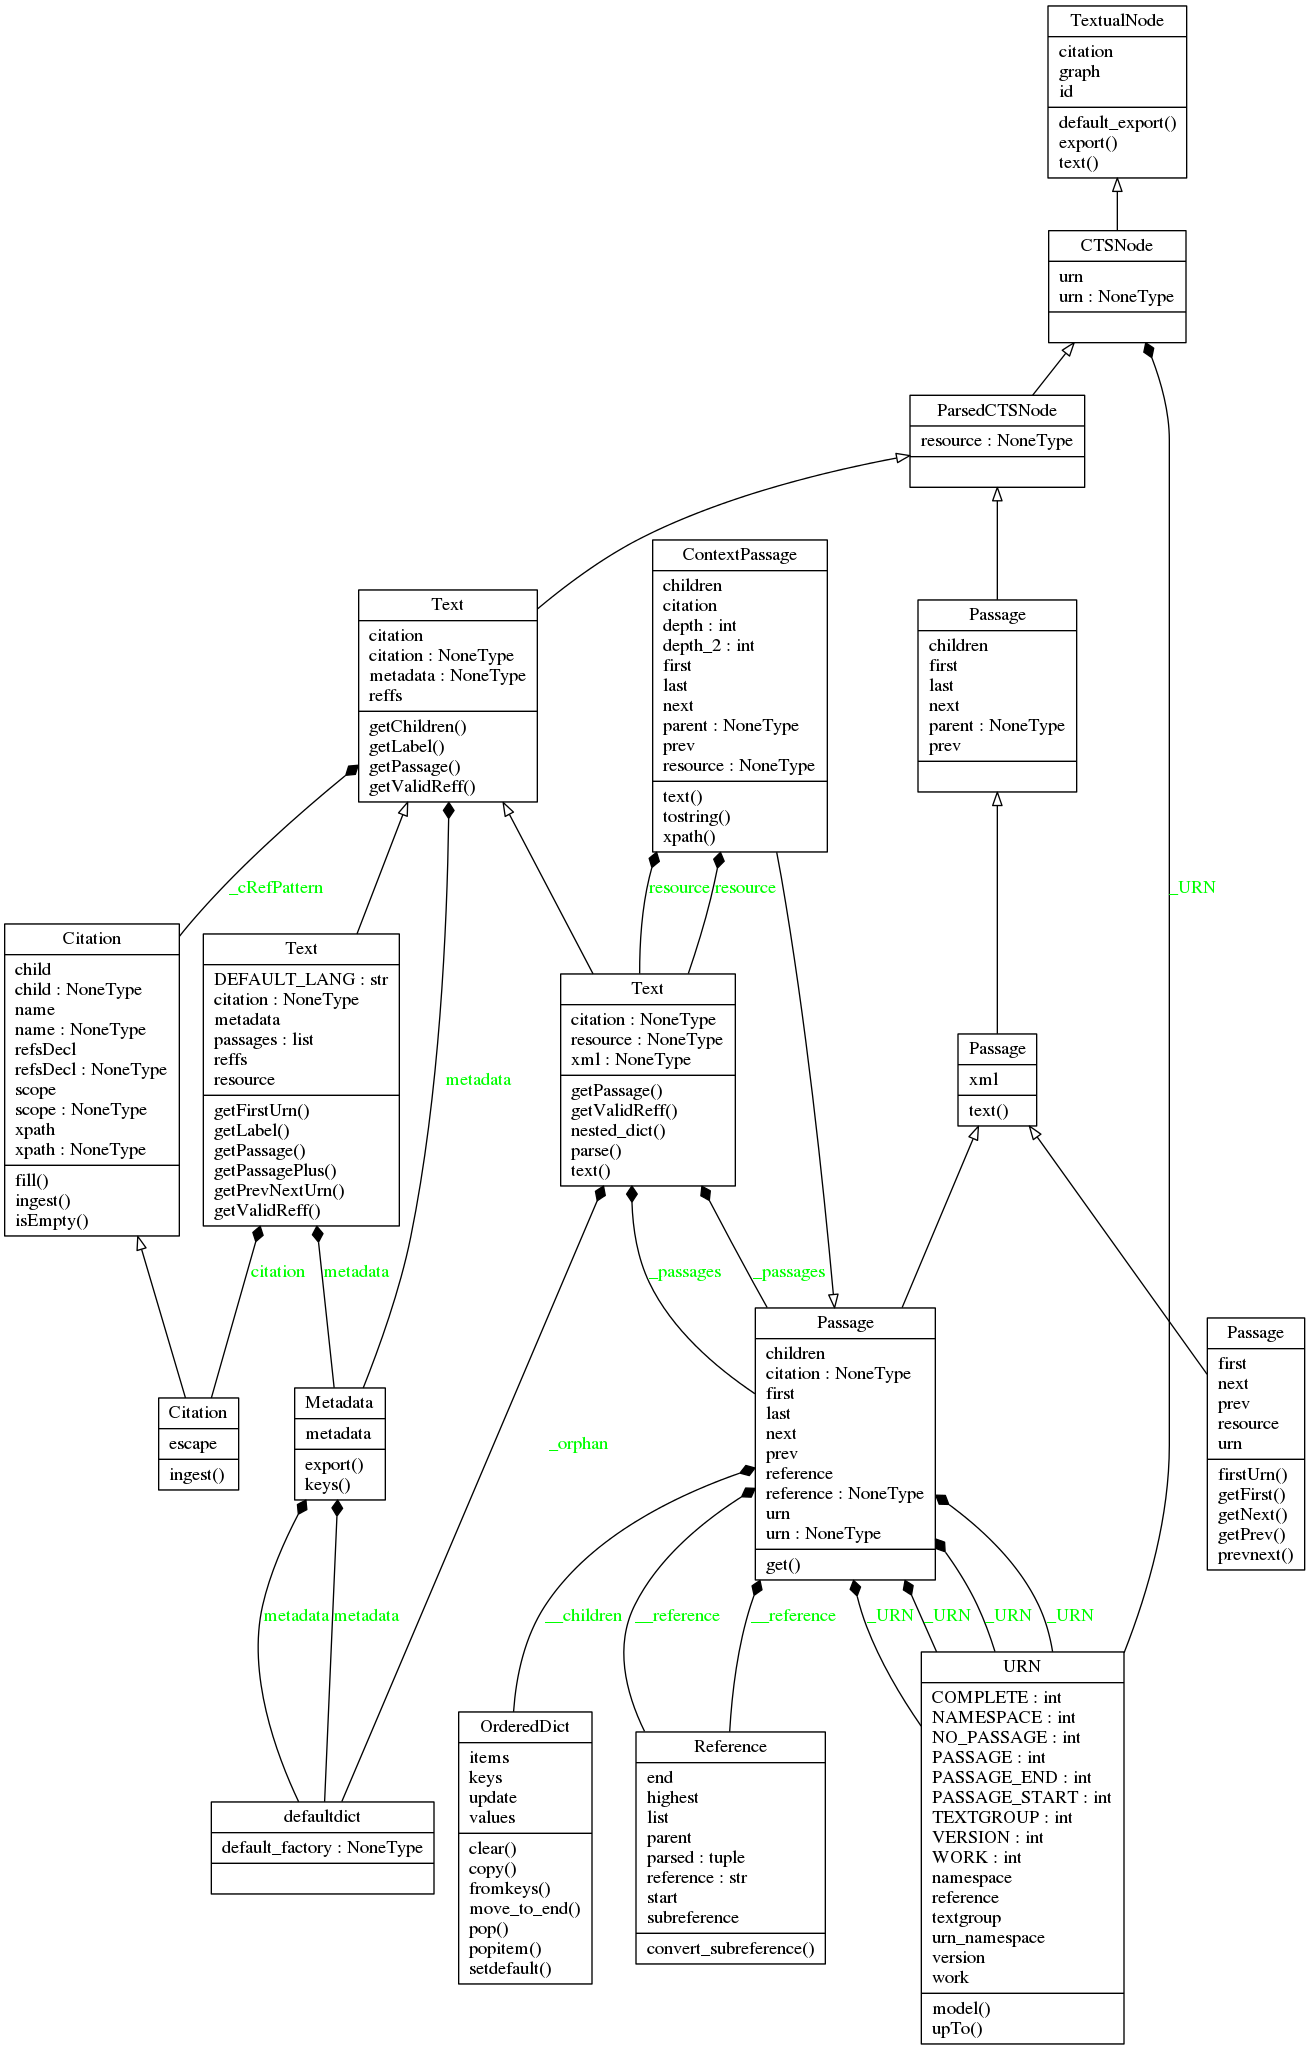
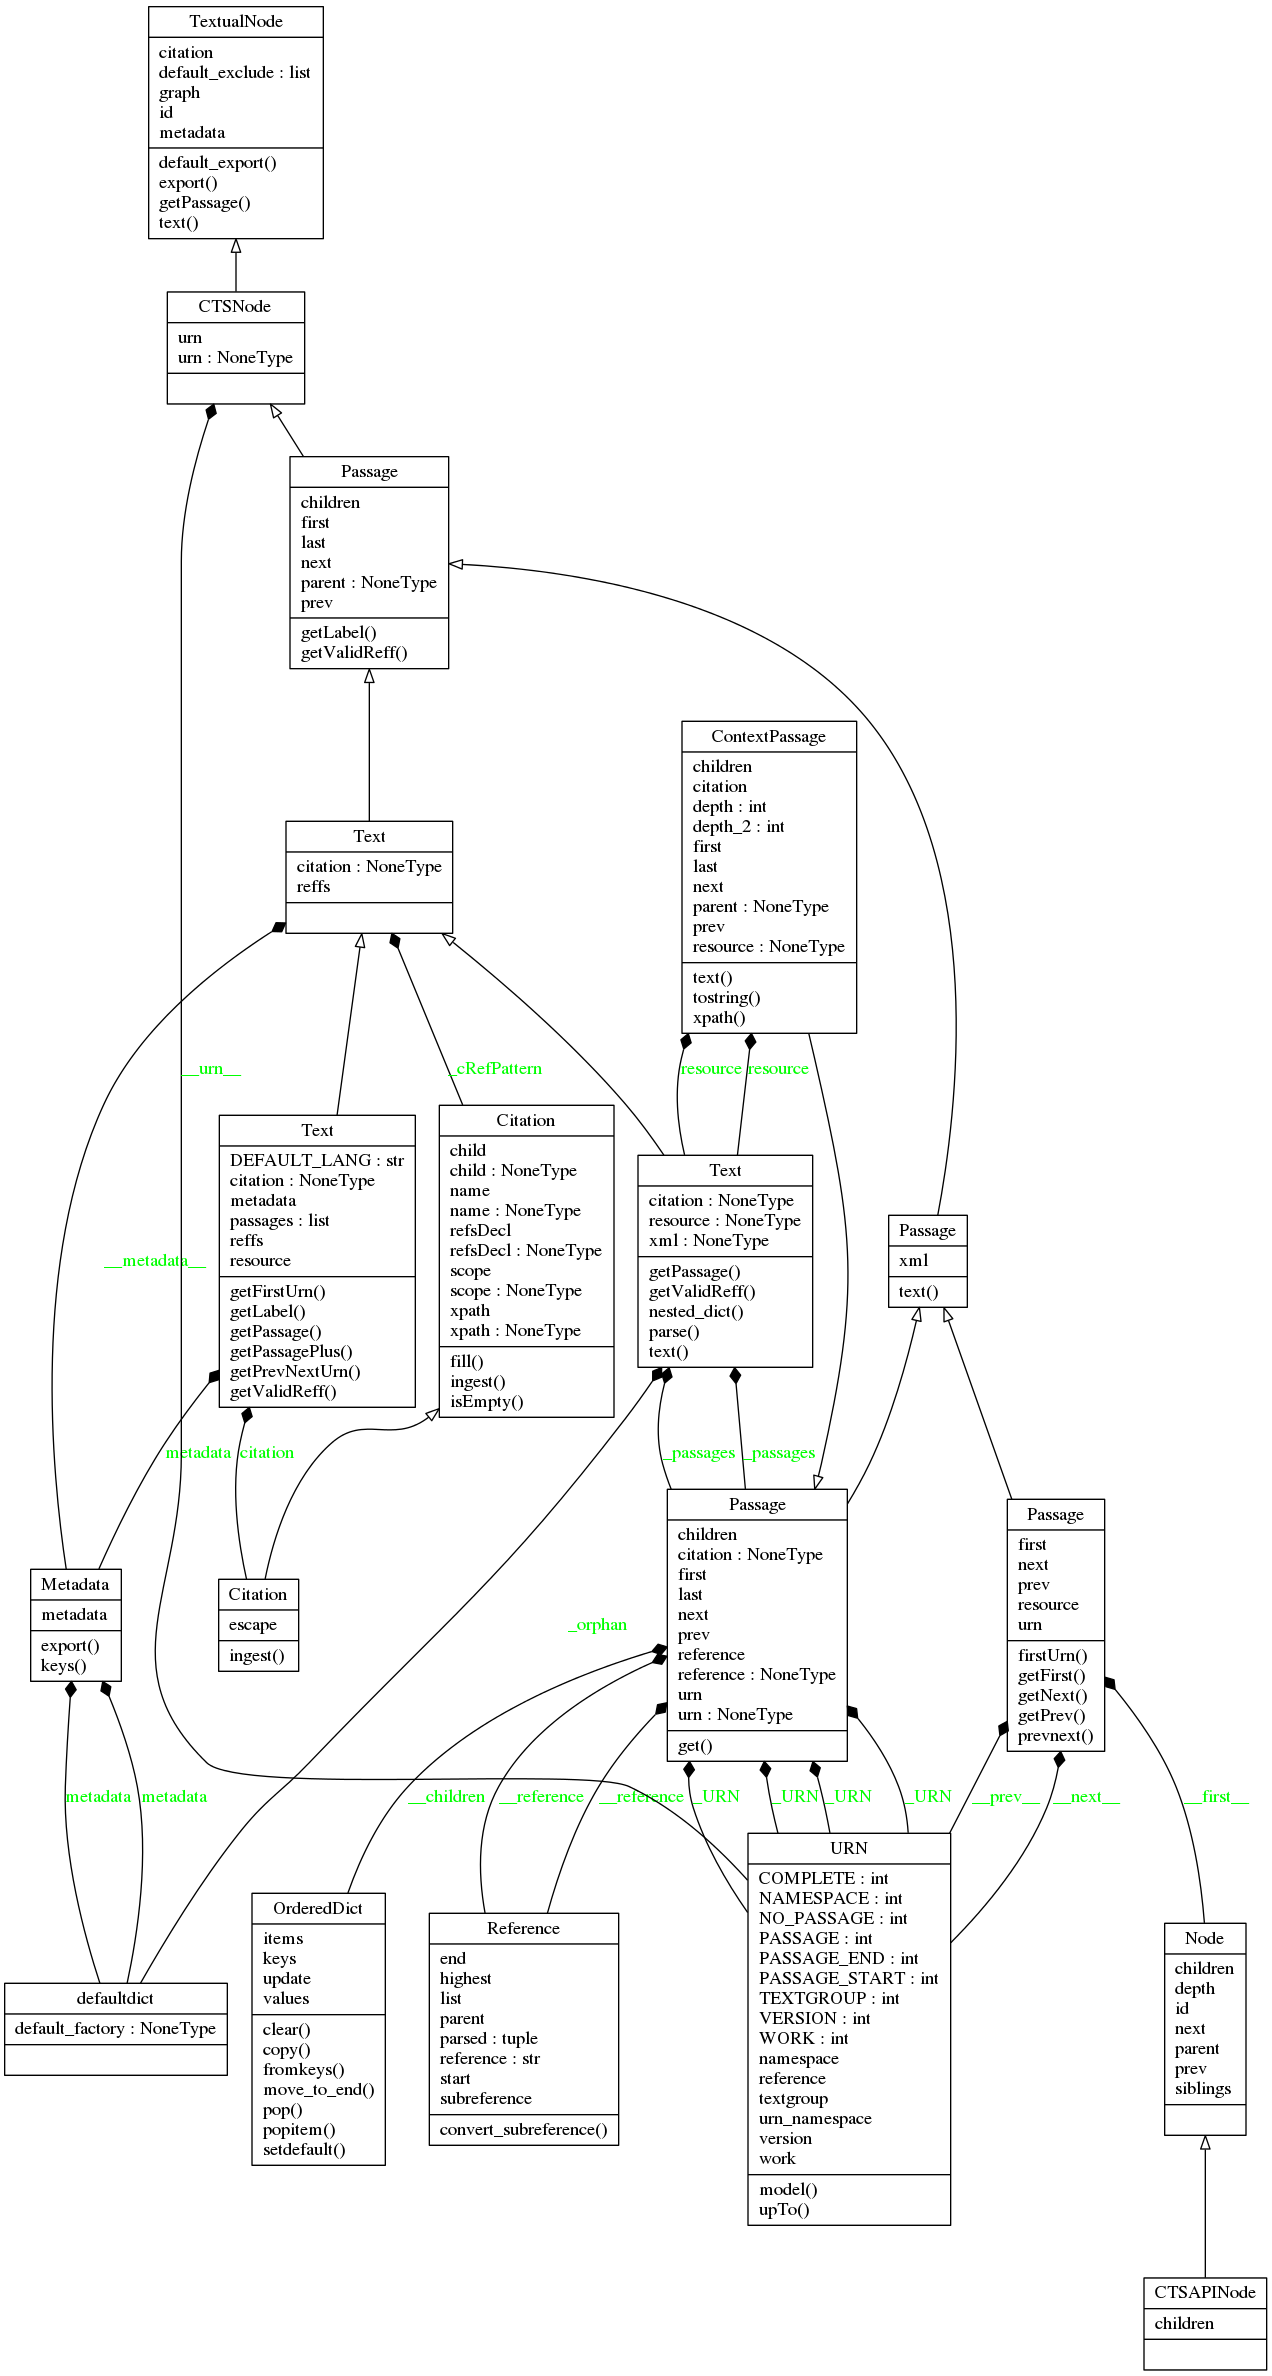
TextualNode -> Passage -> Text refactorization!

diff --git a/MyCapytain/resources/prototypes/text.py b/MyCapytain/resources/prototypes/text.py
@@ -11,17 +11,37 @@ from past.builtins import basestring
 from MyCapytain.common.reference import URN, Reference, Citation, Node
 from MyCapytain.common.metadata import Metadata
 from MyCapytain.common.utils import Mimetypes
+from MyCapytain.resources.prototypes.metadata import Collection
 
 
 class TextualNode(object):
+    """ Node representing a text passage.
+
+    :param textId: Identifier of the text
+    :type textId: str
+    :param graph: Graph giving the information about the node position in a text tree
+    :type graph: Node
+    :param citation: Citation system of the text
+    :type citation: Citation
+
+    :cvar default_exclude: Default exclude for exports
+    """
+
+    default_exclude = []
+
     def __init__(self, textId=None, graph=None, citation=None):
         self.__id__ = textId
         self.__graph__ = graph or Node()
         self.__citation__ = citation or Citation()
         self.__text__ = ""
+        self.__metadata__ = None
 
     @property
     def citation(self):
+        """
+
+        :rtype: Citation
+        """
         return self.__citation__
 
     @citation.setter
@@ -31,7 +51,7 @@ class TextualNode(object):
         self.__citation__ = value
 
     def text(self):
-        return self.__text__
+        return self.export(output=Mimetypes.PLAINTEXT, exclude=self.default_exclude)
 
     @property
     def id(self):
@@ -51,25 +71,64 @@ class TextualNode(object):
             raise TypeError("Graph property can only be a Node object")
         self.__graph__ = value
 
-    def default_export(self, output=Mimetypes.JSON_DTS, domain=""):
+    def default_export(self, output=Mimetypes.JSON_DTS, exclude=None):
         """ Export the textual node item in the Mimetype required
 
         :param output: Mimetype to export to (Uses MyCapytain.common.utils.Mimetypes)
         :type output: str
+        :param exclude: Informations to exclude. Specific to implementations
+        :type exclude: [str]
         :return: Object using a different representation
         """
-        raise NotImplementedError()
+        raise NotImplementedError
 
-    def export(self, output=None):
+    def export(self, output=None, exclude=None):
         """ Export the collection item in the Mimetype required.
 
         ..note:: If current implementation does not have special mimetypes, reuses default_export method
 
         :param output: Mimetype to export to (Uses MyCapytain.common.utils.Mimetypes)
         :type output: str
+        :param exclude: Informations to exclude. Specific to implementations
+        :type exclude: [str]
         :return: Object using a different representation
         """
-        return self.default_export(output)
+        if exclude is None:
+            exclude = self.default_exclude
+        return self.default_export(output, exclude)
+
+    @property
+    def metadata(self):
+        """ Metadata information about the text
+
+        :return: Collection object with metadata about the text
+        """
+        return self.__metadata__
+
+    @metadata.setter
+    def metadata(self, value):
+        """ Set the metadata collection attribute
+
+        :param value: Collection of metadata
+        :type value: Collection
+        """
+        if isinstance(value, Collection):
+            self.__metadata__ = value
+        else:
+            raise TypeError("Metadata should be collection based")
+
+    def getPassage(self, reference):
+        """ Retrieve a passage and store it in the object
+
+        :param reference: Reference of the passage to retrieve
+        :type reference: str or Node or Reference
+        :rtype: TextualNode
+        :returns: Object representing the passage
+
+        :raises: *TypeError* when reference is not a list or a Reference
+        """
+
+        raise NotImplementedError()
 
 
 class CTSNode(TextualNode):
@@ -77,11 +136,17 @@ class CTSNode(TextualNode):
     
     :param urn: A URN identifier
     :type urn: URN
+    :param graph: Graph giving the information about the node position in a text tree
+    :type graph: Node
+    :param citation: Citation system of the text
+    :type citation: Citation
+
+    :cvar default_exclude: Default exclude for exports
     """
 
     def __init__(self, urn=None, graph=None, citation=None):
         super(CTSNode, self).__init__(textId=str(urn), citation=citation, graph=graph)
-        self._URN = None
+        self.__urn__ = None
 
         if urn is not None:
             self.urn = urn
@@ -91,9 +156,8 @@ class CTSNode(TextualNode):
         """ URN Identifier of the object
 
         :rtype: URN
-
         """
-        return self._URN
+        return self.__urn__
     
     @urn.setter
     def urn(self, value):
@@ -108,21 +172,10 @@ class CTSNode(TextualNode):
             value = URN(value)
         elif not isinstance(value, URN):
             raise TypeError()
-        self._URN = value
+        self.__urn__ = value
 
 
-class ParsedCTSNode(CTSNode):
-    """
-
-    :param resource: A resource
-    :type resource: Any
-    """
-    def __init__(self, resource=None, *args, **kwargs):
-        super(ParsedCTSNode, self).__init__(**kwargs)
-        self.resource = resource
-
-
-class Passage(ParsedCTSNode):
+class Passage(CTSNode):
     """ Passage representing object prototype
     
     :param urn: A URN identifier
@@ -152,8 +205,8 @@ class Passage(ParsedCTSNode):
 
         :rtype: Passage
         :returns: Previous passage at same level
-        """ 
-        raise NotImplementedError()
+        """
+        return self.graph.prev
 
     @property
     def next(self):
@@ -161,54 +214,45 @@ class Passage(ParsedCTSNode):
 
         :rtype: Passage
         :returns: Following passage at same level
-        """ 
-        raise NotImplementedError()
+        """
+        return self.graph.next
 
     @property
     def first(self):
         """ First child of current Passage 
         
-        :rtype: None or Passage
-        :returns: None if current Passage has no children,  first child passage if available
+        :rtype: Node
+        :returns: First passage node Information
         """
-        raise NotImplementedError()
+        if len(self.graph.children):
+            return self.graph.children[0]
+        else:
+            raise NotImplementedError
 
     @property
     def last(self):
         """ Last child of current Passage 
         
-        :rtype: None or Passage
-        :returns: None if current Passage has no children, last child passage if available
+        :rtype: Node
+        :returns: Last passage Node representation
         """
-        raise NotImplementedError()
+        if len(self.graph.children):
+            return self.graph.children[-1]
+        else:
+            raise NotImplementedError
 
     @property
     def children(self):
         """ Children of the passage
 
-        :rtype: OrderedDict
-        :returns: Dictionary of chidren, where key are subreferences
+        :rtype: [Node]
+        :returns: List of childrens according to .graph
         """
-        raise NotImplementedError()
-
-
-class Text(ParsedCTSNode):
-    """ A CTS Text """
-    def __init__(self, citation=None, metadata=None, **kwargs):
-        super(Text, self).__init__(**kwargs)
-
-        self._cRefPattern = Citation()
-        if citation is not None:
-            self.citation = citation
-
-        if metadata is not None:
-            self.metadata = metadata
-        else:
-            self.metadata = Metadata()
+        return self.graph.children
 
     def getValidReff(self, level=1, reference=None):
-        """ Given a resource, Text will compute valid reffs 
-        
+        """ Given a resource, Text will compute valid reffs
+
         :param level: Depth required. If not set, should retrieve first encountered level (1 based)
         :type level: Int
         :param passage: Subreference (optional)
@@ -218,39 +262,30 @@ class Text(ParsedCTSNode):
         """
         raise NotImplementedError()
 
-    def getChildren(self, reference=None, depth=None):
-        """ Given a resource, Text will compute valid reffs
-
-        :param level: Depth required. If not set, should retrieve first encountered level (1 based)
-        :type level: Int
-        :param passage: Subreference (optional)
-        :type passage: Reference
-        :rtype: List.basestring
-        :returns: Node
-        """
-        raise NotImplementedError()
-
-    def getPassage(self, reference):
-        """ Retrieve a passage and store it in the object
-        
-        :param reference: Reference of the passage
-        :type reference: MyCapytain.common.reference.Reference or List of basestring
-        :rtype: Passage
-        :returns: Object representing the passage
-        :rtype: Passage
-
-        :raises: *TypeError* when reference is not a list or a Reference
-        """
-
-        raise NotImplementedError()
-
     def getLabel(self):
         """ Retrieve metadata about the text
-        
-        :rtype: dict
-        :returns: Dictionary with label informations
+
+        :rtype: Collection
+        :returns: Retrieve Label informations in a Collection format
         """
         raise NotImplementedError()
+
+
+class Text(Passage):
+    """ A CTS Text """
+    def __init__(self, citation=None, metadata=None, **kwargs):
+        super(Text, self).__init__(**kwargs)
+
+        self._cRefPattern = Citation()
+        if citation is not None:
+            self.citation = citation
+
+        if metadata is not None:
+            self.__metadata__ = metadata
+        else:
+            self.__metadata__ = Metadata()
+
+        self.__reffs__ = None
 
     @property
     def reffs(self):
@@ -258,22 +293,6 @@ class Text(ParsedCTSNode):
 
         :rtype: MyCapytain.resources.texts.tei.Citation
         """
-        return [reff for reffs in [self.getValidReff(level=i) for i in range(1, len(self.citation) + 1)] for reff in reffs]
-
-    @property
-    def citation(self):
-        """ Get the lowest cRefPattern in the hierarchy
-
-        :rtype: MyCapytain.common.reference.Citation
-        """
-        return self._cRefPattern
-    
-    @citation.setter
-    def citation(self, value):
-        """ Set the cRefPattern
-
-        :param value: Citation to be saved
-        :type value:  MyCapytain.common.reference.Citation
-        """
-        if isinstance(value, Citation):
-            self._cRefPattern = value
+        if not self.__reffs__:
+            self.__reffs__ = [reff for reffs in [self.getValidReff(level=i) for i in range(1, len(self.citation) + 1)] for reff in reffs]
+        return self.__reffs__

diff --git a/MyCapytain/resources/texts/api/cts.py b/MyCapytain/resources/texts/api/cts.py
@@ -230,12 +230,13 @@ class Text(MyCapytain.resources.prototypes.text.Text):
 class CTSAPINode(Node):
 
     def __init__(self, identifier=None, children=None, parent=None, siblings=(None, None), depth=1, api=None):
-        self.
+        super(CTSAPINode, self).__init__(identifier, children, parent, siblings, depth)
+        self.__api__ = api
 
     @property
     def children(self):
         if not self.__children__:
-
+            a = 0
         return self.__children__
 
 

diff --git a/MyCapytain/common/utils.py b/MyCapytain/common/utils.py
@@ -381,5 +381,6 @@ class Mimetypes:
     RDFXML = "application/rdf+xml"
     CTS_XML = "text/xml:CTS"
     MY_CAPYTAIN = "MyCapytain"
-    ETREE = "xml"
+    ETREE = "python/lxml"
     MyCapytainText = "MyCapytain/Text"
+    PLAINTEXT = "text/plain"
